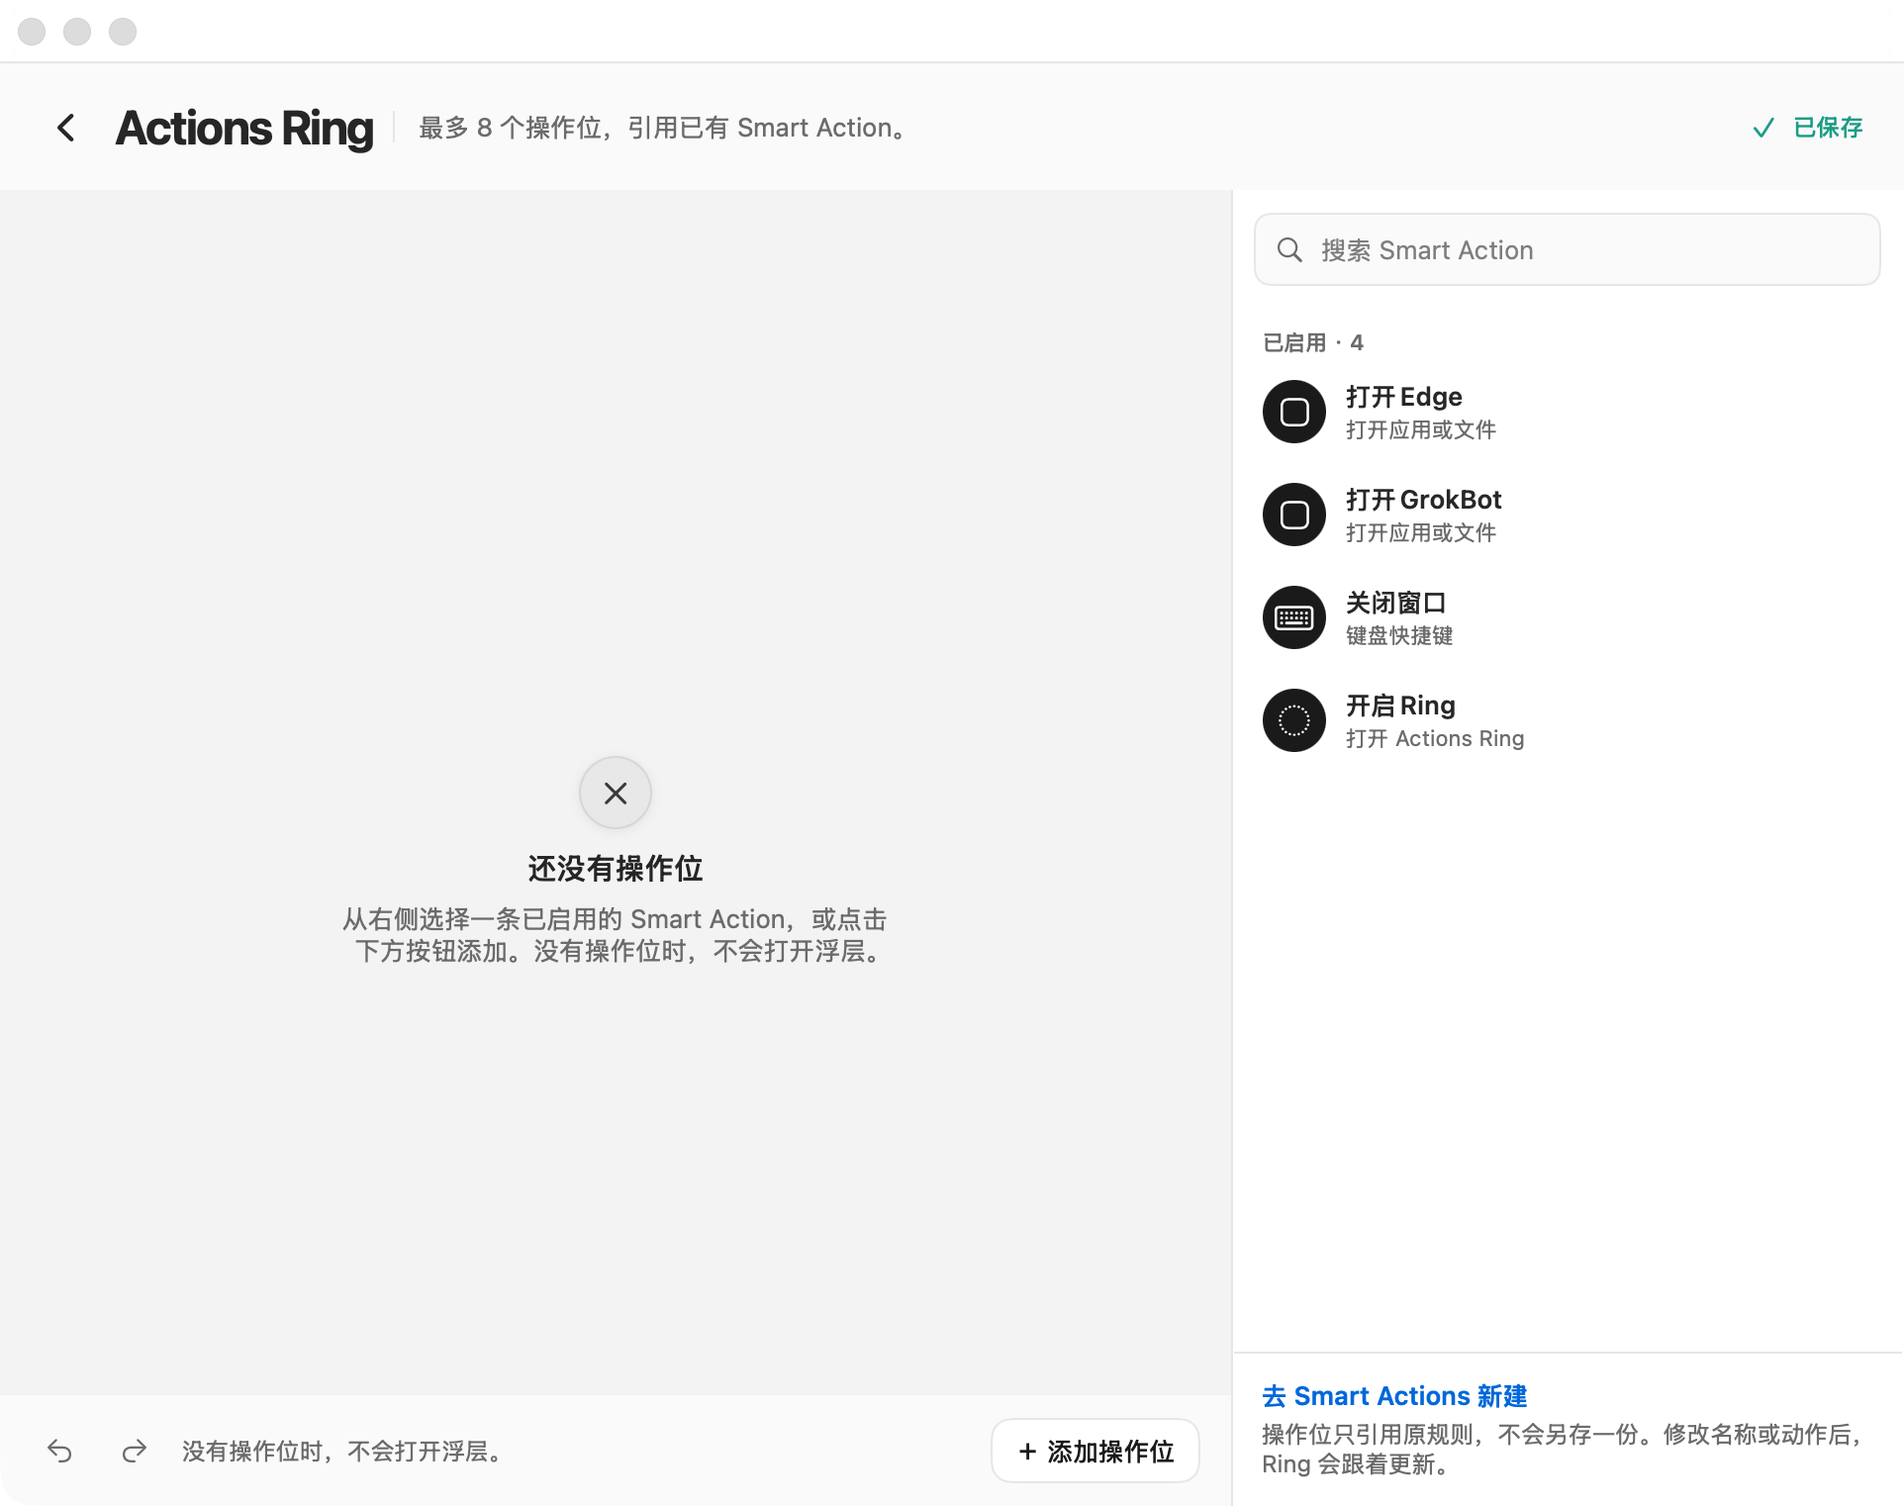
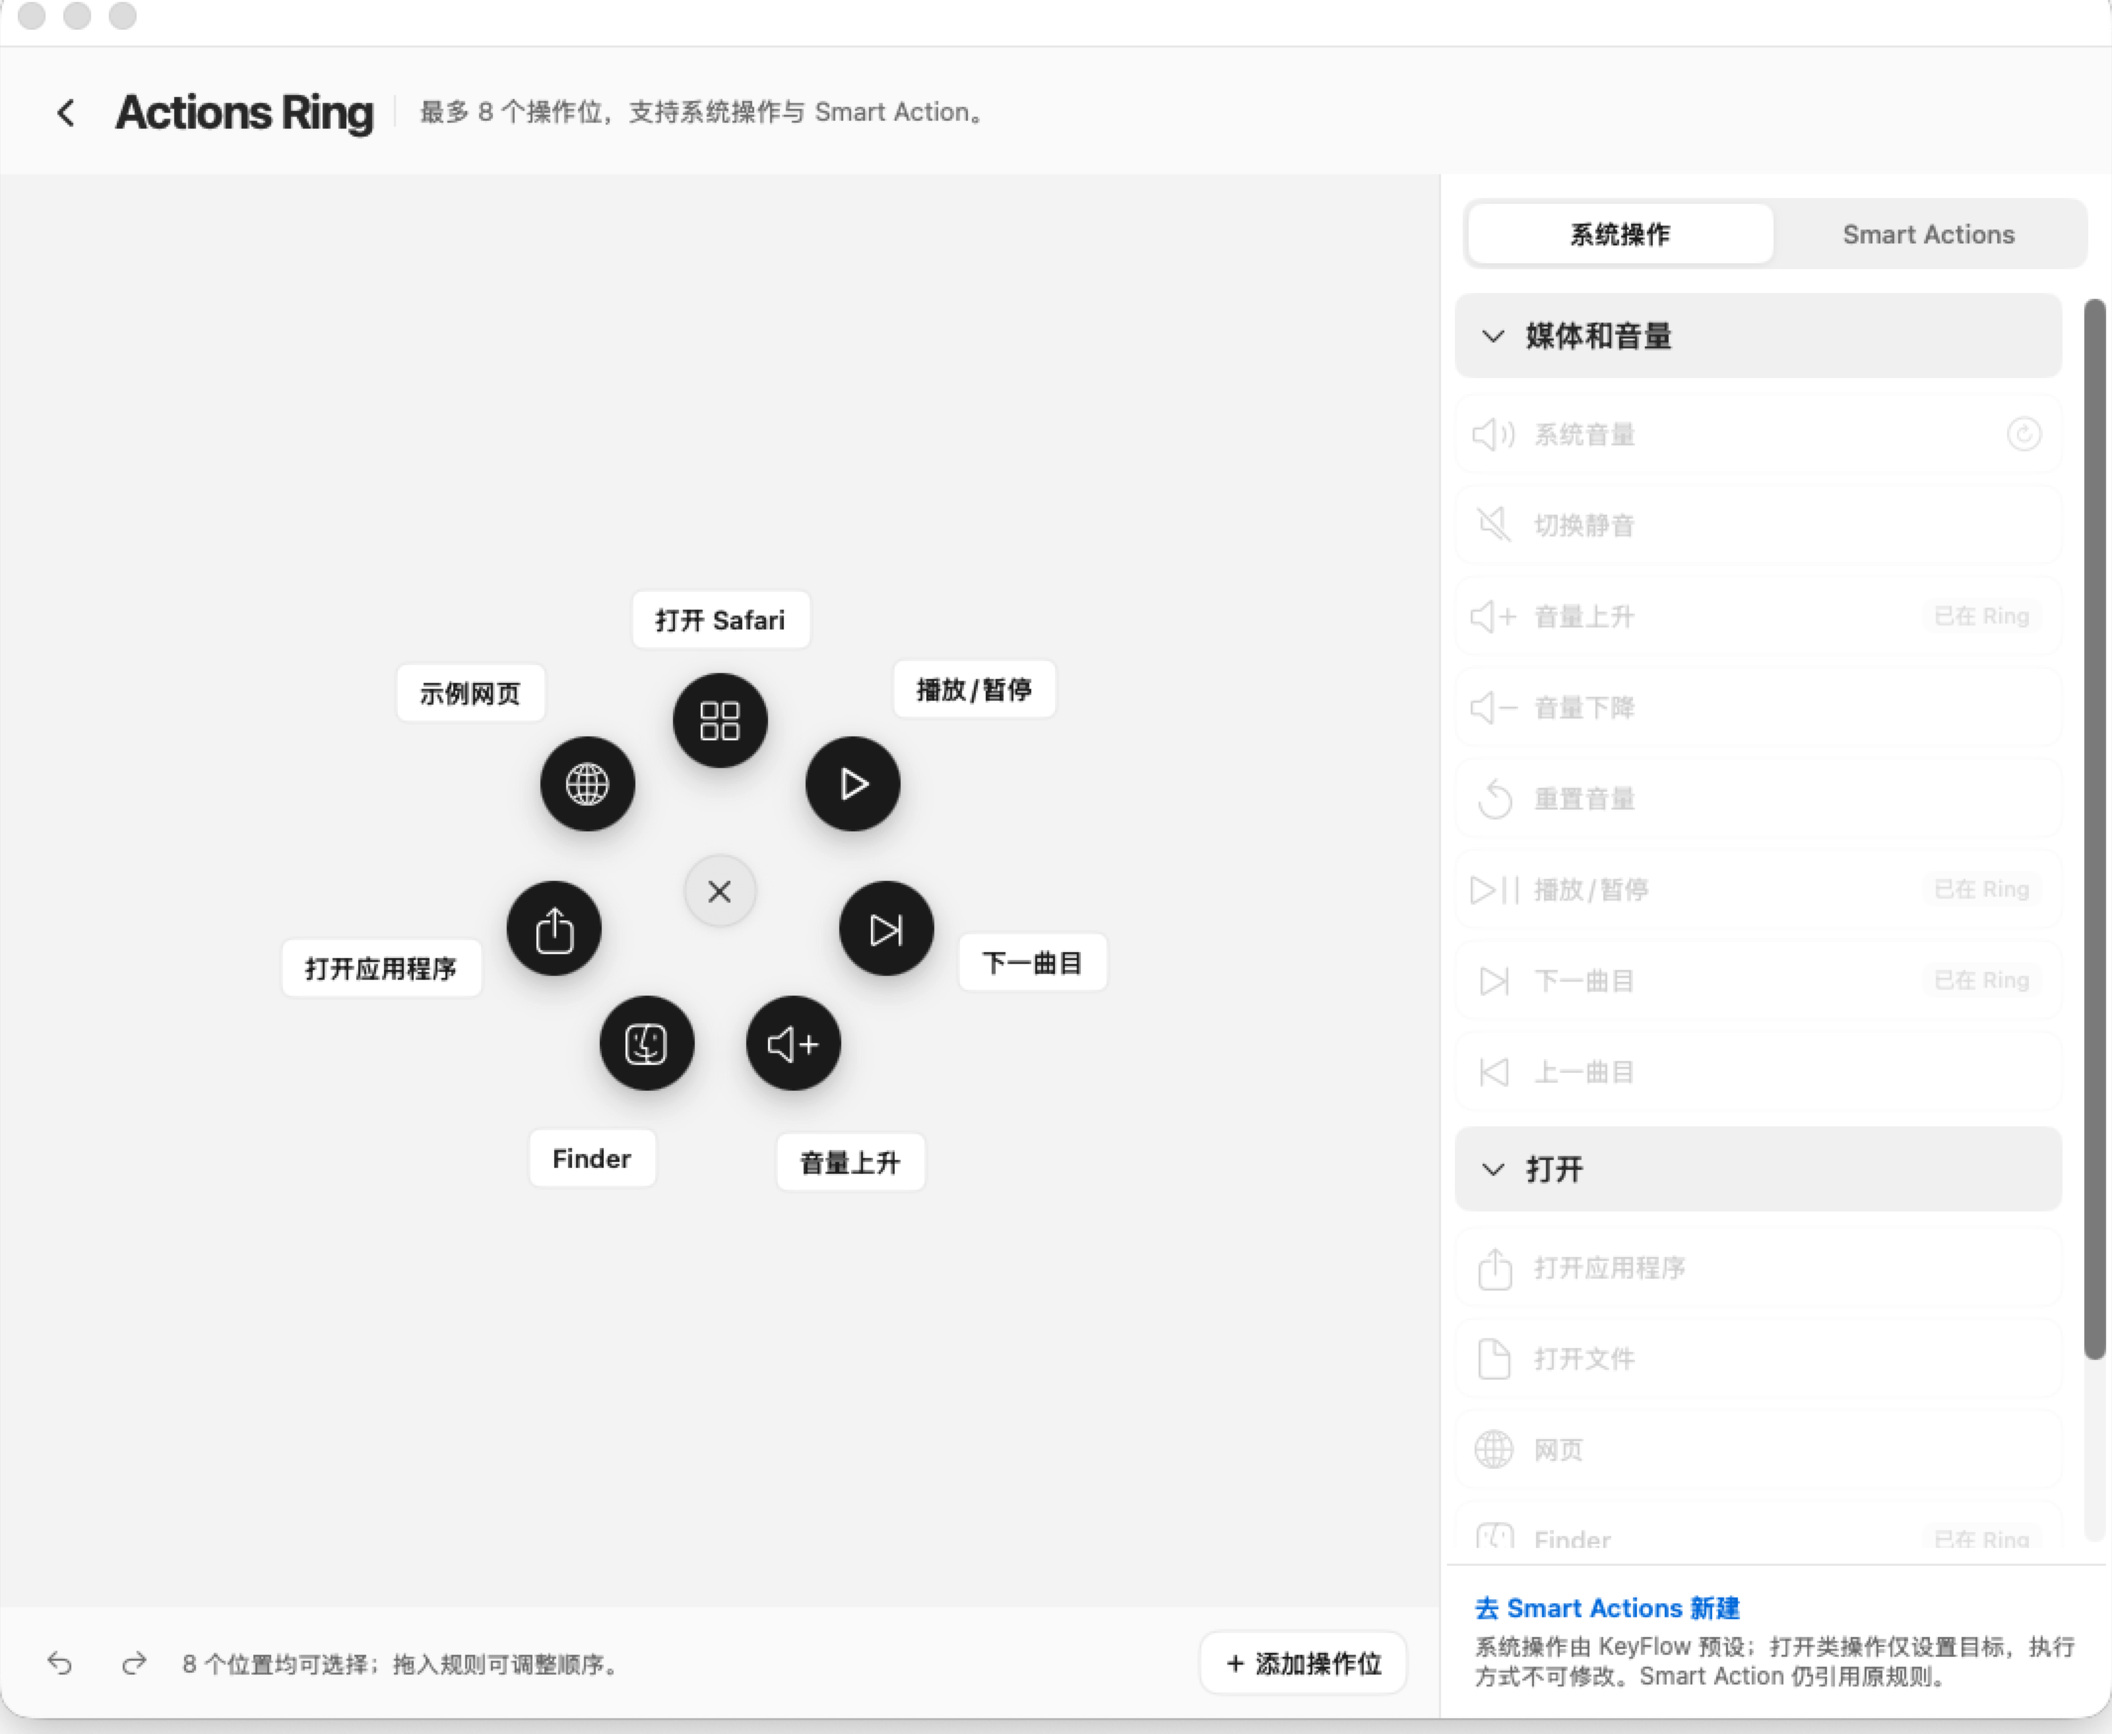
Update README screenshots and release packaging

diff --git a/README.md b/README.md
@@ -129,6 +129,8 @@ Ring 不占用固定的默认按键。只需在任意规则中添加 **“打开
 
 需要 macOS 13+ 和 Xcode Command Line Tools，**不需要完整 Xcode**。
 
+### 本机运行包
+
 ```bash
 git clone https://github.com/daxiangwork/KeyFlow.git
 cd KeyFlow
@@ -137,9 +139,56 @@ swift build
 open dist/KeyFlow.app
 ```
 
-打包脚本会同时复制 Ring 图标库、生成稳定的本机签名，并输出可直接运行的 `dist/KeyFlow.app`。当前应用包内置完整 SVG 图标索引，打包后约为 37 MB。
+`package-app.sh` 会复制 Ring 图标库、生成本机可运行的 `dist/KeyFlow.app`，并优先使用 `CODE_SIGN_IDENTITY` 指定的签名身份。没有正式证书时，本机开发流程仍会使用本地开发签名。
 
-打包脚本优先使用 `CODE_SIGN_IDENTITY` 指定的签名身份；本机存在 `KeyFlow Local Development` 时使用该稳定身份，否则使用 ad-hoc 签名。稳定签名可以避免普通重新构建后反复授权。
+### DMG 发布策略
+
+项目支持两种发布模式，`.github/workflows/release.yml` 会根据 GitHub Secrets 自动选择。
+
+#### 没有 Apple Developer Program
+
+没有 Apple Developer Program 时，**推荐其他用户直接从源码构建**。推送版本 tag 后，CI 仍会生成一个明确标注的 DMG，但它只是测试版：
+
+```bash
+git tag v0.1.1
+git push origin v0.1.1
+```
+
+此时 GitHub Release 会标记为 **Pre-release**，DMG 文件名包含 `unsigned-test`，Release 说明中也会明确提示：
+
+- 未完成 Apple 公证
+- 仅适合信任该开源项目的测试用户
+- 首次打开需要在“隐私与安全性”中手动允许
+- 普通用户更推荐源码构建
+
+本地也可以验证未公证 DMG：
+
+```bash
+KEYFLOW_SKIP_NOTARIZATION=1 ./Scripts/package-dmg.sh
+```
+
+#### 已配置 Apple Developer Program
+
+对外公开分发推荐使用已签名、已公证、已 staple 的正式 DMG。配置以下 GitHub Secrets 后，推送同一个 `v*` tag 会自动生成正式 Release：
+
+| Secret | 用途 |
+| --- | --- |
+| `APPLE_CERTIFICATE_BASE64` | Base64 编码的 Developer ID Application `.p12` 证书 |
+| `APPLE_CERTIFICATE_PASSWORD` | 上述 `.p12` 证书密码 |
+| `KEYCHAIN_PASSWORD` | CI 临时钥匙串密码 |
+| `APPLE_SIGNING_IDENTITY` | 可选，完整签名身份，如 `Developer ID Application: Name (TeamID)` |
+| `APPLE_API_KEY_ID` | App Store Connect API Key ID |
+| `APPLE_API_ISSUER_ID` | App Store Connect API Issuer ID |
+| `APPLE_API_KEY_BASE64` | Base64 编码的 `.p8` 公证密钥 |
+
+正式模式会自动执行：
+
+1. 构建 Release 版 `KeyFlow.app`
+2. 使用 Developer ID Application 和 Hardened Runtime 重新签名
+3. 生成包含 `/Applications` 链接的 UDZO DMG
+4. 使用 `notarytool` 提交 Apple 公证
+5. 公证通过后 staple 并验证
+6. 上传 DMG 到 GitHub Release
 
 ## 项目文档
 
